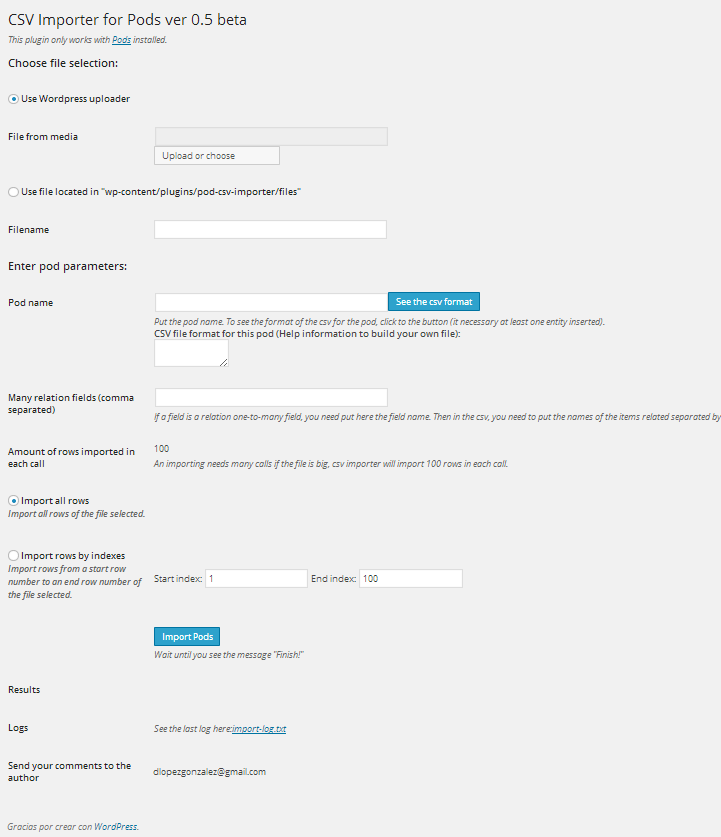
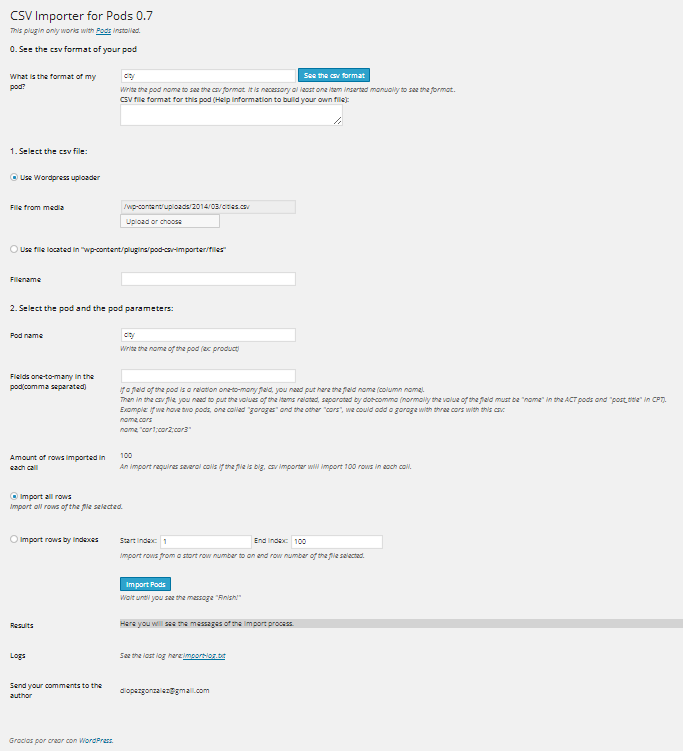
to 0.7

diff --git a/pods-csv-importer.php b/pods-csv-importer.php
@@ -3,7 +3,7 @@
 Plugin Name: CSV Importer For Pods
 Plugin URI: 
 Description: A CSV Importer for Pods. You can find the plugin's section in Tools -> CSV Importer For Pods
-Version: 0.6
+Version: 0.7
 Author: Daniel López - dlopezgonzalez@gmail.com
 Author URI: http://www.devlopez.com
 License: GPL2
@@ -12,8 +12,7 @@ include_once("parsecsv.lib.php");
 //HOOKS
 add_action('init','pods_csv_importer_init');
 
-function pods_csv_importer_init(){
-    
+function pods_csv_importer_init(){   
 
 }
 
@@ -21,92 +20,106 @@ add_action( 'admin_menu', 'register_pods_csv_importer_menu_page' );
 
 function register_pods_csv_importer_menu_page(){
     //add_menu_page( 'Pods CSV Importer', 'Pods CSV Importer', 'manage_options', 'podcsvsimporter', 'pods_csv_importer_admin_page', '', 6 ); 
-    add_management_page('CSV Importer For Pods', 'CSV Importer For Pods', 'manage_options', 'pods-csv-importer', 'pods_csv_importer_admin_page');
+    add_management_page('CSV Importer For Pods', 'CSV Importer For Pods', 'manage_options', 'csv-importer-for-pods', 'pods_csv_importer_admin_page');
 }
 
 function pods_csv_importer_admin_page(){
   
 ?>
 <div class="wrap">
-<h2><?php echo __('CSV Importer for Pods 0.6','pods-csv-importer'); ?></h2>
-<p class="description"><?php echo __('This plugin only works with <a href="http://wordpress.org/plugins/pods/" target="_blank">Pods</a> installed.','pods-csv-importer'); ?></p>
-<h3 class="title"><?php echo __('Choose file selection:','pods-csv-importer'); ?></h3>
+<h2><?php echo __('CSV Importer for Pods 0.7','csv-importer-for-pods'); ?></h2>
+<p class="description"><?php echo __('This plugin only works with <a href="http://wordpress.org/plugins/pods/" target="_blank">Pods</a> installed.','csv-importer-for-pods'); ?></p>
+<h3 class="title"><?php echo __('0. See the csv format of your pod','csv-importer-for-pods'); ?></h3>
+<table class="form-table">
+  <tbody>  
+    <tr valign="top">
+      <th scope="row"><label for="podname"><?php echo __('What is the format of my pod?','csv-importer-for-pods'); ?></label></th>
+      <td>
+		<input name="podnametoformat" id="podnametoformat" value="" class="regular-text" type="text">
+		<input id="format" class="button button-primary" value="See the csv format" type="submit">
+		<p class="description"><?php echo __('Write the pod name to see the csv format. It is necessary al least one item inserted manually to see the format.','csv-importer-for-pods'); ?>.</p>
+		<span><strong><?php echo __('CSV file format for this pod (Help information to build your own file):','csv-importer-for-pods'); ?></span></strong><br>
+		<textarea rows="2" cols="50" readonly id="pod_csv_format"></textarea></p>	  
+	  </td>
+	</tr>
+</table>
+	
+	  
+<h3 class="title"><?php echo __('1. Select the csv file:','csv-importer-for-pods'); ?></h3>
 <table class="form-table">
   <tbody>
     
     <tr valign="top">
-      <th scope="row" colspan="2"><input type="radio" name="file_type" value="media" checked><strong><?php echo __('Use Wordpress uploader','pods-csv-importer'); ?></strong></th>
+      <th scope="row" colspan="2"><input type="radio" name="file_type" value="media" checked><strong><?php echo __('Use Wordpress uploader','csv-importer-for-pods'); ?></strong></th>
     </tr>
     
     <tr valign="top">
       <th scope="row">
         <label for="podname">
-         	<?php echo __('File from media','pods-csv-importer'); ?>
+         	<?php echo __('File from media','csv-importer-for-pods'); ?>
         </label>
       </th>
       <td>
         <div class="uploader">
           <input type="text" name="settings[_unique_name]" id="fileurl" class="regular-text" readonly /><br>        
-          <input class="button" name="_unique_name_button" id="_unique_name_button" value="<?php echo __('Upload or choose','pods-csv-importer'); ?>" /><br>
+          <input class="button" name="_unique_name_button" id="_unique_name_button" value="<?php echo __('Upload or choose','csv-importer-for-pods'); ?>" /><br>
           <input type="text" name="fileid" id="fileid" hidden class="regular-text"/>
         </div>
       </td>
     </tr>
     
     <tr valign="top">
-      <th colspan="2" scope="row"><input type="radio" name="file_type" value="ftp"><strong><?php echo __('Use file located in "wp-content/plugins/pod-csv-importer/files"','pods-csv-importer'); ?></strong></th>
+      <th colspan="2" scope="row"><input type="radio" name="file_type" value="ftp"><strong><?php echo __('Use file located in "wp-content/plugins/pod-csv-importer/files"','csv-importer-for-pods'); ?></strong></th>
     </tr>
     
     <tr valign="top">
-      <th scope="row"><label for="filename"><?php echo __('Filename','pods-csv-importer'); ?></label></th>
+      <th scope="row"><label for="filename"><?php echo __('Filename','csv-importer-for-pods'); ?></label></th>
       <td><input name="filename" id="filename" value="" class="regular-text" type="text"></td>      
     </tr> 
     
  </tbody>
 </table>
 
-<h3 class="title"><?php echo __('Enter pod parameters:','pods-csv-importer'); ?></h3>
+<h3 class="title"><?php echo __('2. Select the pod and the pod parameters:','csv-importer-for-pods'); ?></h3>
 <table class="form-table">
   <tbody>  
     <tr valign="top">
-      <th scope="row"><label for="podname"><?php echo __('Pod name','pods-csv-importer'); ?></label></th>
-      <td><input name="podname" id="podname" value="" class="regular-text" type="text"><input id="format" class="button button-primary" value="See the csv format" type="submit">
-	  <p class="description"><?php echo __('Put the pod name. To see the format of the csv for the pod, click to the button (it necessary at least one entity inserted)','pods-csv-importer'); ?>.</p>
-	  <span><strong><?php echo __('CSV file format for this pod (Help information to build your own file):','pods-csv-importer'); ?></span></strong><br>
-	  <textarea rows="2" cols="10" readonly id="pod_csv_format"></textarea>
+      <th scope="row"><label for="podname"><?php echo __('Pod name','csv-importer-for-pods'); ?></label></th>
+      <td><input name="podname" id="podname" value="" class="regular-text" type="text">
+	  <p class="description"><?php echo __('Write the name of the pod (ex: product)','csv-importer-for-pods'); ?></p>	  
 	  </td>
 	</tr>
     
     <tr valign="top">
-      <th scope="row"><label for="podname"><?php echo __('Many relation fields (comma separated)','pods-csv-importer'); ?></label></th>
+      <th scope="row"><label for="podname"><?php echo __('Fields one-to-many in the pod(comma separated)','csv-importer-for-pods'); ?></label></th>
       <td><input name="mv_pod_fields" id="mv_pod_fields" value="" class="regular-text" type="text">
-	  <p class="description"><?php echo __('If a field is a relation one-to-many field, you need put here the field name (column name).<br>' . 
-										   'Then in the csv, you need to put the values of the items related separated by dot-comma (normally the value is the field called name).<br>' . 
-										   'Example: We have a Garage Pods and a Car Pods (one-to-many relation). If we want to relate three cars with a garage, the csv will have this form:<br>'.
+	  <p class="description"><?php echo __('If a field of the pod is a relation one-to-many field, you need put here the field name (column name).<br>' . 
+										   'Then in the csv file, you need to put the values of the items related, separated by dot-comma (normally the value of the field must be "name" in the ACT pods and "post_title" in CPT).<br>' . 
+										   'Example: If we have two pods, one called "garages" and the other "cars", we could add a garage with three cars with this csv:<br>'.
 										   '<i>name,cars<br>'.
-										   'name,"car1;car2;car3"<br></i>','pods-csv-importer'); ?></p>
+										   'name,"car1;car2;car3"<br></i>','csv-importer-for-pods'); ?></p>
 	  </td>
     </tr>
     
     <tr valign="top">
-      <th scope="row"><label for="maxnumber"><?php echo __('Amount of rows imported in each call','pods-csv-importer'); ?></label></th>
+      <th scope="row"><label for="maxnumber"><?php echo __('Amount of rows imported in each call','csv-importer-for-pods'); ?></label></th>
       <td>100<!--<input name="maxnumber" type="number" min="0" max="500" step="10" id="maxnumber" value="100" class="small-text">-->
-	  <p class="description"><?php echo __('An importing needs many calls if the file is big, csv importer will import 100 rows in each call.','pods-csv-importer'); ?></p></td>
+	  <p class="description"><?php echo __('An import requires several calls if the file is big, csv importer will import 100 rows in each call.','csv-importer-for-pods'); ?></p></td>
     </tr>
     
 	<tr valign="top">
-      <th colspan="2" scope="row"><input type="radio" name="import_type" value="all" checked><strong><?php echo __('Import all rows','pods-csv-importer'); ?></strong>
-	  <p class="description"><?php echo __('Import all rows of the file selected.','pods-csv-importer'); ?></p>
+      <th colspan="2" scope="row"><input type="radio" name="import_type" value="all" checked><strong><?php echo __('Import all rows','csv-importer-for-pods'); ?></strong>
+	  <p class="description"><?php echo __('Import all rows of the file selected.','csv-importer-for-pods'); ?></p>
 	  </th>
     </tr>
 	
 	<tr valign="top">
-      <th colspan="1" scope="row"><input type="radio" name="import_type" value="indexes"><strong><?php echo __('Import rows by indexes','pods-csv-importer'); ?></strong>
-	  <p class="description"><?php echo __('Import rows from a start row number to an end row number of the file selected.','pods-csv-importer'); ?></p>
+      <th colspan="1" scope="row"><input type="radio" name="import_type" value="indexes"><strong><?php echo __('Import rows by indexes','csv-importer-for-pods'); ?></strong>
 	  </th>
 	  <td>
-	  <p><label for="podname"><?php echo __('Start index: ','pods-csv-importer'); ?></label><input style=" width: 8%; " name="ib" id="ib" value="1" class="regular-text" type="text">
-	  <label for="podname"><?php echo __('End index: ','pods-csv-importer'); ?></label><input style=" width: 8%; " name="ie" id="ie" value="100" class="regular-text" type="text">
+	  <p><label for="podname"><?php echo __('Start index: ','csv-importer-for-pods'); ?></label><input style=" width: 8%; " name="ib" id="ib" value="1" class="regular-text" type="text">
+	  <label for="podname"><?php echo __('End index: ','csv-importer-for-pods'); ?></label><input style=" width: 8%; " name="ie" id="ie" value="100" class="regular-text" type="text">
+	  <p class="description"><?php echo __('Import rows from a start row number to an end row number of the file selected.','csv-importer-for-pods'); ?></p>
 	  </p>
 	  </td>
 	</tr>
@@ -117,7 +130,7 @@ function pods_csv_importer_admin_page(){
       <td>        
         <label for=""><input name="submit" id="import" class="button button-primary" value="Import Pods" type="submit"></label>
 		<span class="executing"></span>
-		<p class="description"><?php echo __('Wait until you see the message "Finish!"', 'pods-csv-importer'); ?></p>
+		<p class="description"><?php echo __('Wait until you see the message "Finish!"', 'csv-importer-for-pods'); ?></p>
       </td>
     </tr>
     <!--
@@ -133,13 +146,13 @@ function pods_csv_importer_admin_page(){
     <tr valign="top">
       <th scope="row">
         <label for="podname">
-         	<?php echo __('Results','pods-csv-importer'); ?>
+         	<?php echo __('Results','csv-importer-for-pods'); ?>
         </label>
       </th>
       <td>
-      	<label id="result">
-         	
-        </label>
+      	<div id="result" style="background: lightgrey; width: 100%;">
+         	Here you will see the messages of the import process.
+        </div>
 		<p class="description">
       </td>
     </tr>    
@@ -147,18 +160,18 @@ function pods_csv_importer_admin_page(){
 	<tr valign="top">
       <th scope="row">
         <label for="podname">
-         	<?php echo __('Logs','pods-csv-importer'); ?>
+         	<?php echo __('Logs','csv-importer-for-pods'); ?>
         </label>
       </th>
       <td>      	
-		<p class="description"><?php echo __('See the last log here:', 'pods-csv-importer'); ?><a href="<?php echo plugin_dir_url( __FILE__ ).'import-log.txt'; ?>">import-log.txt</a>
+		<p class="description"><?php echo __('See the last log here:', 'csv-importer-for-pods'); ?><a href="<?php echo plugin_dir_url( __FILE__ ).'import-log.txt'; ?>">import-log.txt</a>
       </td>
     </tr>    
 
 	<tr valign="top">
       <th scope="row">
         <label for="podname">
-         	<?php echo __('Send your comments to the author','pods-csv-importer'); ?>
+         	<?php echo __('Send your comments to the author','csv-importer-for-pods'); ?>
         </label>
       </th>
       <td>
@@ -206,14 +219,14 @@ function pods_csv_importer_admin_page(){
 				try{
 					obj=JSON.parse(data);
 				}catch(e){
-					$("label#result").append("Error: " + data);	
+					$("div#result").append("Error: " + data);	
 					obj = null;
 				}
 				
 				if(obj != null){
 					if(obj.success){
 						var msg = obj.msg + "<br>";
-						$("label#result").append(msg);		
+						$("div#result").append(msg);		
 						if(!obj.end){
 							if(!finish){
 								import_csv(pod, mv_pod_fields, type, file, ib + offset, ie + offset, finish);
@@ -221,11 +234,11 @@ function pods_csv_importer_admin_page(){
 								notify_finish();
 							}
 						}else{
-							$("label#result").append("Finish!");
+							$("div#result").append("Finish!");
 							notify_finish();
 						}
 					}else{
-						$("label#result").append(obj.msg);
+						$("div#result").append(obj.msg);
 						notify_finish();
 					}
 				}else{
@@ -233,13 +246,13 @@ function pods_csv_importer_admin_page(){
 				}				
 			})
 			.fail(function() {           
-				$("label#result").append("Error");		
+				$("div#result").append("Error");		
 				notify_finish();
 			});         
 		}
 		
 		$("input#format").click(function(e) { 
-			var pod = $("input#podname").val();
+			var pod = $("input#podnametoformat").val();
 			var data = { action: 'show_fields', pod: pod};
 			$.get( ajaxurl, data )
 			.done(function( data ) {
@@ -274,14 +287,14 @@ function pods_csv_importer_admin_page(){
 				if(isNaN(parseInt(ib)) || 
 				   isNaN(parseInt(ie)))
 				{   
-					$("label#result").html('Index entries are incorrect');
+					$("div#result").html('Index entries are incorrect');
 					return;
 				}			
 				finish = true;
 			}
 			
 			notify_execution();
-			$("label#result").html('');
+			$("div#result").html('');
 			import_csv(pod, mv_pod_fields, type, file, ib, ie, finish);
 	      
 		});
@@ -339,6 +352,11 @@ function show_fields_callback() {
 	$pods = pods( $pod_name, $params );
 	$data = $pods->export(); 
 
+	if($data == null || count($data) == 0){
+		echo __('Sorry, or your pod does not exist or you need to add one item manually of that pod to see the format.', 'csv-importer-for-pods');
+		return;
+	}
+	
 	foreach(array_keys($data) as $key)
 	{
 	   echo '"'.$key.'",';
@@ -349,7 +367,7 @@ function show_fields_callback() {
 	   echo '"'.$pods->display($key).'",';
 	}
 	
-	die(); // this is required to return a proper result
+	return; // this is required to return a proper result
 }
 
 add_action( 'wp_ajax_import_pod', 'import_pod_callback' );

diff --git a/README.md b/README.md
@@ -8,6 +8,10 @@ You can upload the csv file using the wordpress uploader, see a log of your impo
 
 This plugin is compatible with every kinds of pods included User (extended) pod.  
 
+# = 0.7 =
+
+* Improvements about gui interface to understand better the instructions
+
 # = 0.6 =
 * A functional csv importer for pods.
 * You can upload the csv file using the wordpress uploader, see a log of your importing, importing between two row indexes and obtain the format of the csv for the any pod.
